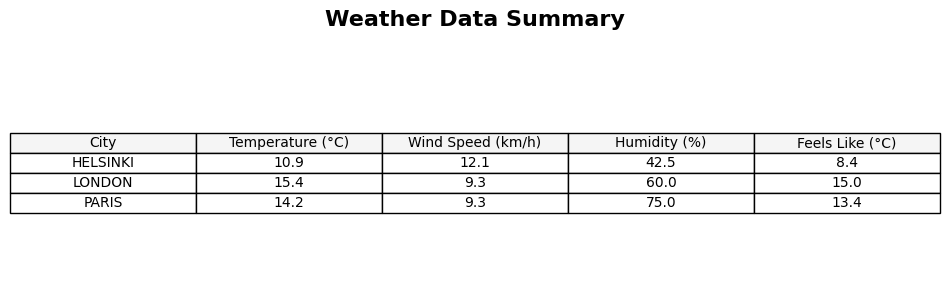
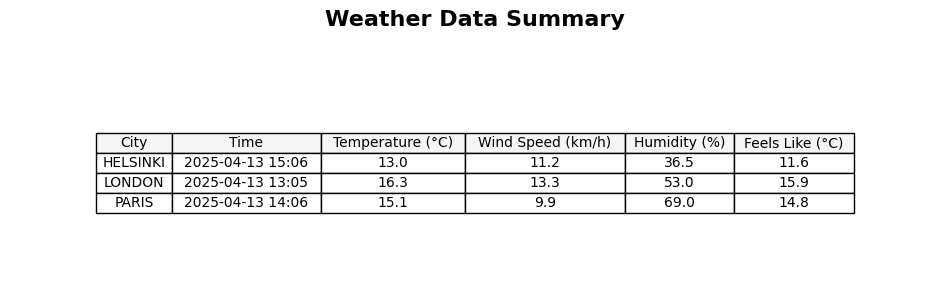
including timestamp

Changed region(s): [[0.0, 0.4172, 1.0, 0.7152], [0.6411, 0.6556, 0.7326, 0.6854]]

diff --git a/luigi_pipeline/store_raw_data.py b/luigi_pipeline/store_raw_data.py
@@ -30,7 +30,9 @@ class StoreRawData(luigi.Task):
            wind_speed REAL,
            humidity REAL,
            feels_like REAL,
-           timestamp TEXT
+           timestamp TEXT,
+           timestamp_utc TEXT
+        
         )
         ''')
 
@@ -40,31 +42,33 @@ class StoreRawData(luigi.Task):
         with self.input()[1].open('r') as f:
             weatherapi_data = json.load(f)
 
-        # Assuming we want to use the localtime from WeatherAPI as timestamp
-        #timestamp = weatherapi_data['location']['localtime']
+        local_timestamp = weatherapi_data['location']['localtime']
+        utc_timestamp = weatherapi_data['location']['localtime_epoch']
 
         # Insert data from OpenWeather
         cursor.execute('''
-        INSERT INTO weather_data (city, source, temperature, wind_speed, humidity, feels_like, timestamp)
-        VALUES (?, ?, ?, ?, ?, ?, ?)
+        INSERT INTO weather_data (city, source, temperature, wind_speed, humidity, feels_like, timestamp, timestamp_utc)
+        VALUES (?, ?, ?, ?, ?, ?, ?, ?)
         ''', (self.city, 'openweather', 
               openweather_data['main']['temp'],
               openweather_data['wind']['speed'], 
               openweather_data['main']['humidity'],
               openweather_data['main']['feels_like'],
-              weatherapi_data['location']['localtime'],
+              local_timestamp,
+              utc_timestamp
               ))
 
         # Insert data from WeatherAPI
         cursor.execute('''
-        INSERT INTO weather_data (city, source, temperature, wind_speed, humidity, feels_like, timestamp)
-        VALUES (?, ?, ?, ?, ?, ?, ?)
+        INSERT INTO weather_data (city, source, temperature, wind_speed, humidity, feels_like, timestamp, timestamp_utc)
+        VALUES (?, ?, ?, ?, ?, ?, ?, ?)
         ''', (self.city, 'weatherapi', 
               weatherapi_data['current']['temp_c'],
               weatherapi_data['current']['wind_kph'], 
               weatherapi_data['current']['humidity'],
               weatherapi_data['current']['feelslike_c'],
-              weatherapi_data['location']['localtime'],
+              local_timestamp,
+              utc_timestamp
               ))
 
         conn.commit()

diff --git a/luigi_pipeline/visualise.py b/luigi_pipeline/visualise.py
@@ -26,15 +26,15 @@ def visualise_weather_data(cities):
     
     # Convert to DataFrame
     df = pd.DataFrame(records)
-    df = df[['city', 'temperature', 'wind_speed', 'humidity', 'feels_like']]  # Clean column order
-    df.columns = ['City', 'Temperature (°C)', 'Wind Speed (km/h)', 'Humidity (%)', 'Feels Like (°C)']
+    df = df[['city', 'timestamp', 'temperature', 'wind_speed', 'humidity', 'feels_like']]  # Clean column order
+    df.columns = ['City','Time', 'Temperature (°C)', 'Wind Speed (km/h)', 'Humidity (%)', 'Feels Like (°C)']
 
     df[['Temperature (°C)', 'Wind Speed (km/h)', 'Humidity (%)', 'Feels Like (°C)']] = df[
     ['Temperature (°C)', 'Wind Speed (km/h)', 'Humidity (%)', 'Feels Like (°C)']
     ].round(1)
 
     # Create a figure and axis
-    fig, ax = plt.subplots(figsize=(10, len(df) * 0.7 + 1))  # Dynamic height based on rows
+    fig, ax = plt.subplots(figsize=(12, len(df) * 0.7 + 1))  # Dynamic height based on rows
     ax.axis('off')
 
     plt.title("Weather Data Summary", fontsize=16, fontweight='bold', pad=20)
@@ -51,6 +51,8 @@ def visualise_weather_data(cities):
     table.auto_set_font_size(False)
     table.set_fontsize(10)
     table.scale(1.2, 1.2)
+
+    table.auto_set_column_width([0, 1, 2, 3, 4, 5])
 
     # Save as image
     output_path = "weather_summary_table.png"

diff --git a/luigi_pipeline/merge_and_average.py b/luigi_pipeline/merge_and_average.py
@@ -22,10 +22,15 @@ class MergeandAverageData(luigi.Task):
         query = "SELECT * FROM weather_data WHERE city = ?"
         df = pd.read_sql(query, conn, params=(self.city,))
 
+        timestamp = df['timestamp'].iloc[0]
+        timestamp_utc = df['timestamp_utc'].iloc[0]
+
         
         # Now, calculate the average values for the city across both sources
         avg_data = {
             'city': self.city,
+            'timestamp': timestamp,
+            'timestamp_utc': timestamp_utc,
             'temperature': df['temperature'].mean(),
             'wind_speed': df['wind_speed'].mean(),
             'humidity': df['humidity'].mean(),
